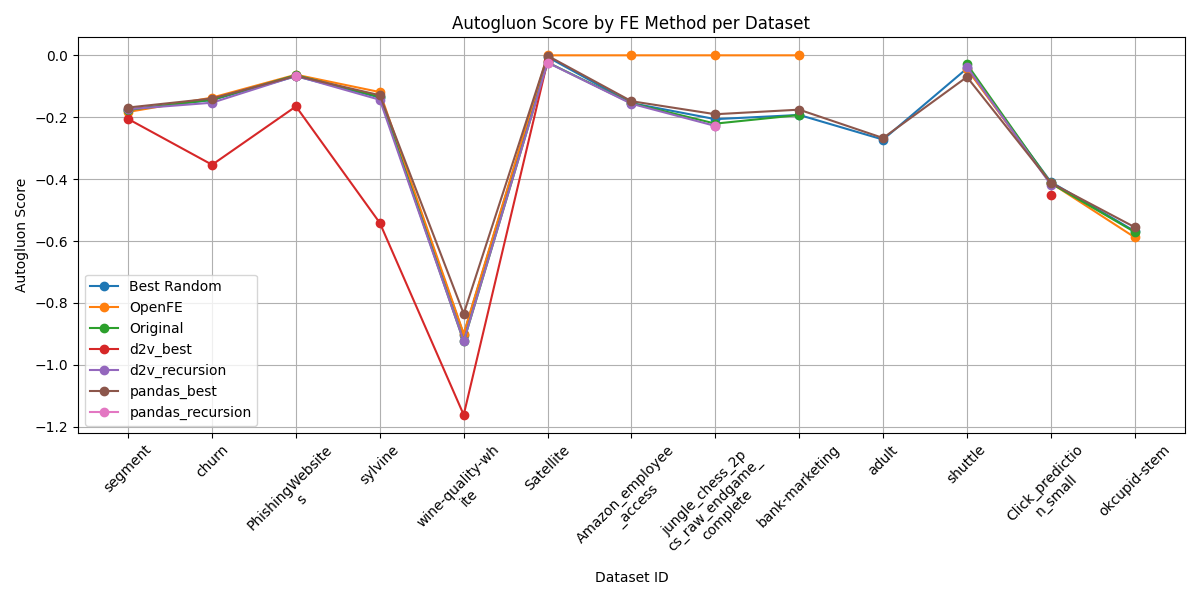
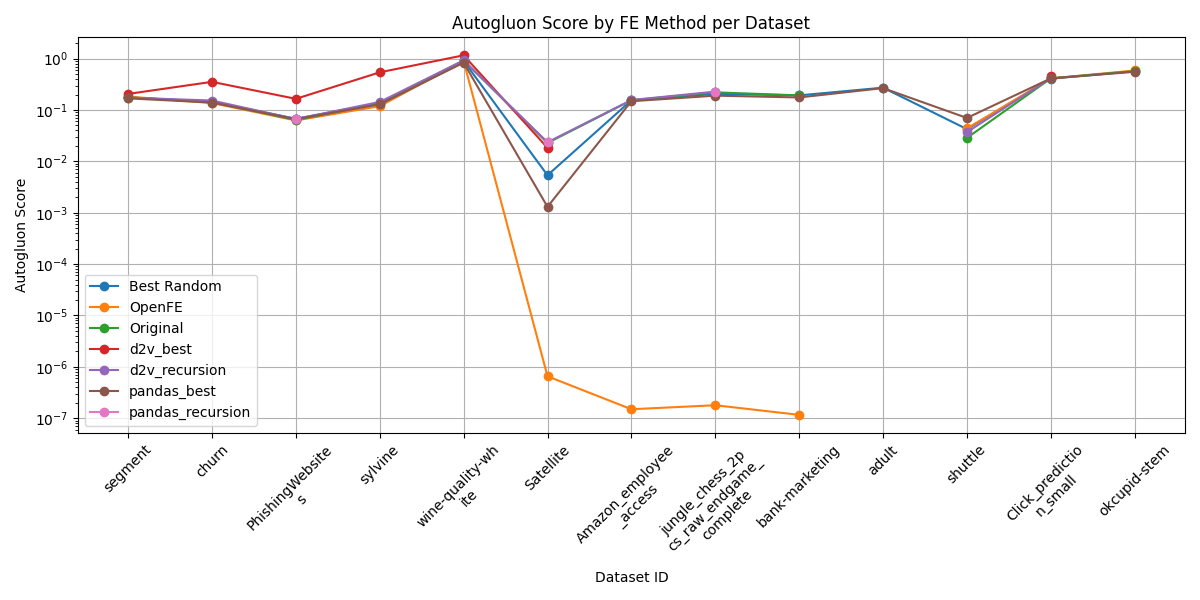
Update performance and include in test again

diff --git a/src/Apply_and_Test/Test_FE.py b/src/Apply_and_Test/Test_FE.py
@@ -38,18 +38,21 @@ def main():
         print("Original Results loaded.")
 
         # === OPENFE RESULTS ===
-        openfe_path = f"test_results/OpenFE_Result_{dataset_id}.parquet"
-        try:
-            openfe_results = pd.read_parquet(openfe_path)
-            print("OpenFE Results loaded.")
-        except FileNotFoundError:
-            X_openfe_train, y_openfe_train, X_openfe_test, y_openfe_test = get_openfe_data(X_train, y_train, X_test, y_test)
-            X_openfe_train = X_openfe_train.rename(columns=lambda x: re.sub('[^A-Za-z0-9_]+', '', x))
-            X_openfe_test = X_openfe_test.rename(columns=lambda x: re.sub('[^A-Za-z0-9_]+', '', x))
-            openfe_results = get_model_score_origin(X_openfe_train, y_openfe_train, X_openfe_test, y_openfe_test, dataset_id, "OpenFE")
-            openfe_results = openfe_results[openfe_results['model'] == "LightGBM_BAG_L1"]
-            openfe_results.to_parquet(openfe_path)
-            print("OpenFE Results calculated.")
+        if int(dataset_id) != 359983:
+            openfe_path = f"test_results/OpenFE_Result_{dataset_id}.parquet"
+            try:
+                openfe_results = pd.read_parquet(openfe_path)
+                print("OpenFE Results loaded.")
+            except FileNotFoundError:
+                X_openfe_train, y_openfe_train, X_openfe_test, y_openfe_test = get_openfe_data(X_train, y_train, X_test, y_test)
+                X_openfe_train = X_openfe_train.rename(columns=lambda x: re.sub('[^A-Za-z0-9_]+', '', x))
+                X_openfe_test = X_openfe_test.rename(columns=lambda x: re.sub('[^A-Za-z0-9_]+', '', x))
+                openfe_results = get_model_score_origin(X_openfe_train, y_openfe_train, X_openfe_test, y_openfe_test, dataset_id, "OpenFE")
+                openfe_results = openfe_results[openfe_results['model'] == "LightGBM_BAG_L1"]
+                openfe_results.to_parquet(openfe_path)
+                print("OpenFE Results calculated.")
+        else:
+            continue
 
         # === METHOD RESULTS (Random/pandas/folds) ===
         combined_results = [original_results, openfe_results]

diff --git a/src/Apply_and_Test/analyse_results.py b/src/Apply_and_Test/analyse_results.py
@@ -27,10 +27,10 @@ def analyse_results():
     df_all = pd.concat(all_results, ignore_index=True)
     df_all = df_all.drop_duplicates()
     # Convert score to error (you can adjust this as needed)
-    df_all["error"] = 1 - df_all["score"]
+    df_all["error"] = - df_all["score"]
 
     # Pivot to have datasets on x, methods on lines
-    df_pivot = df_all.pivot(index="dataset", columns="origin", values="score")
+    df_pivot = df_all.pivot(index="dataset", columns="origin", values="error")
     df_pivot = df_pivot.sort_index()  # Sort by dataset ID
 
     datasets = df_pivot.index.astype(str)
@@ -55,6 +55,7 @@ def analyse_results():
     plt.xlabel("Dataset ID")
     plt.xticks(rotation=45)  # or 90
     plt.ylabel("Autogluon Score")
+    plt.yscale("log") # '', '', 'function', 'functionlog
     plt.title("Autogluon Score by FE Method per Dataset")
     plt.legend()
     plt.grid(True)
